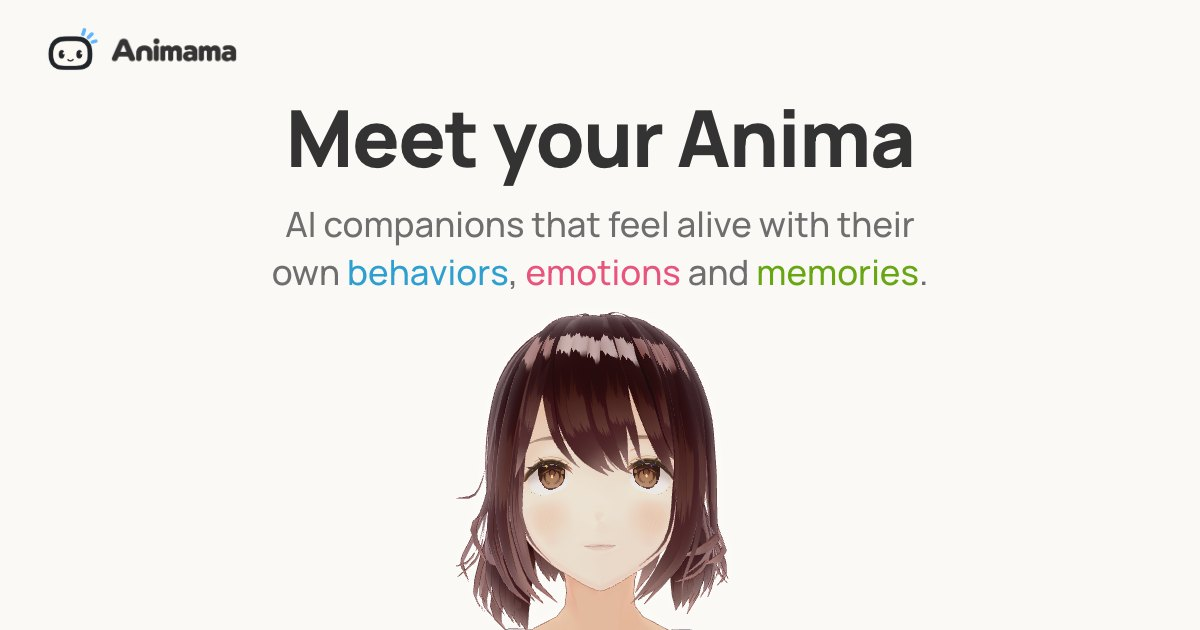
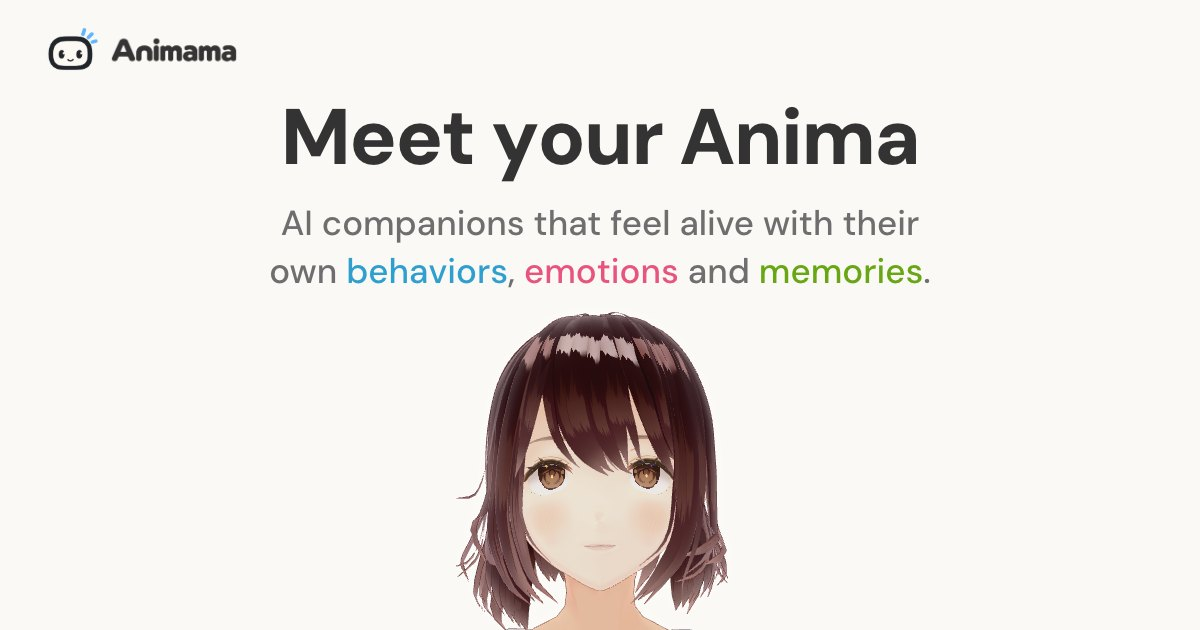
feat(landing): set the hero in the app's DM Sans

diff --git a/src/frontend/web/scripts/landing-stage/stage.css b/src/frontend/web/scripts/landing-stage/stage.css
@@ -150,14 +150,14 @@ body {
     0 0 4px color-mix(in srgb, var(--background) 90%, transparent);
 }
 
-/* The hero's display face (loaded in index.html): bold title, medium line. */
+/* The hero's type, in the app's DM Sans: bold title, medium line. */
 .font-hero {
-  font-family: "Manrope Variable", var(--font-sans);
+  font-family: var(--font-sans);
   font-weight: 800;
   letter-spacing: -0.02em;
 }
 .font-hero-line {
-  font-family: "Manrope Variable", var(--font-sans);
+  font-family: var(--font-sans);
   font-weight: 500;
 }
 

diff --git a/src/frontend/web/scripts/landing-stage/main.ts b/src/frontend/web/scripts/landing-stage/main.ts
@@ -1,6 +1,5 @@
 import "./zod-config";
 import "@fontsource-variable/dm-sans";
-import "@fontsource-variable/manrope";
 import "@fontsource/patrick-hand";
 // Before the Scene layers' own sheet (loaded with the stage), so Tailwind's
 // cascade layers keep their order (theme, base, components, utilities).
